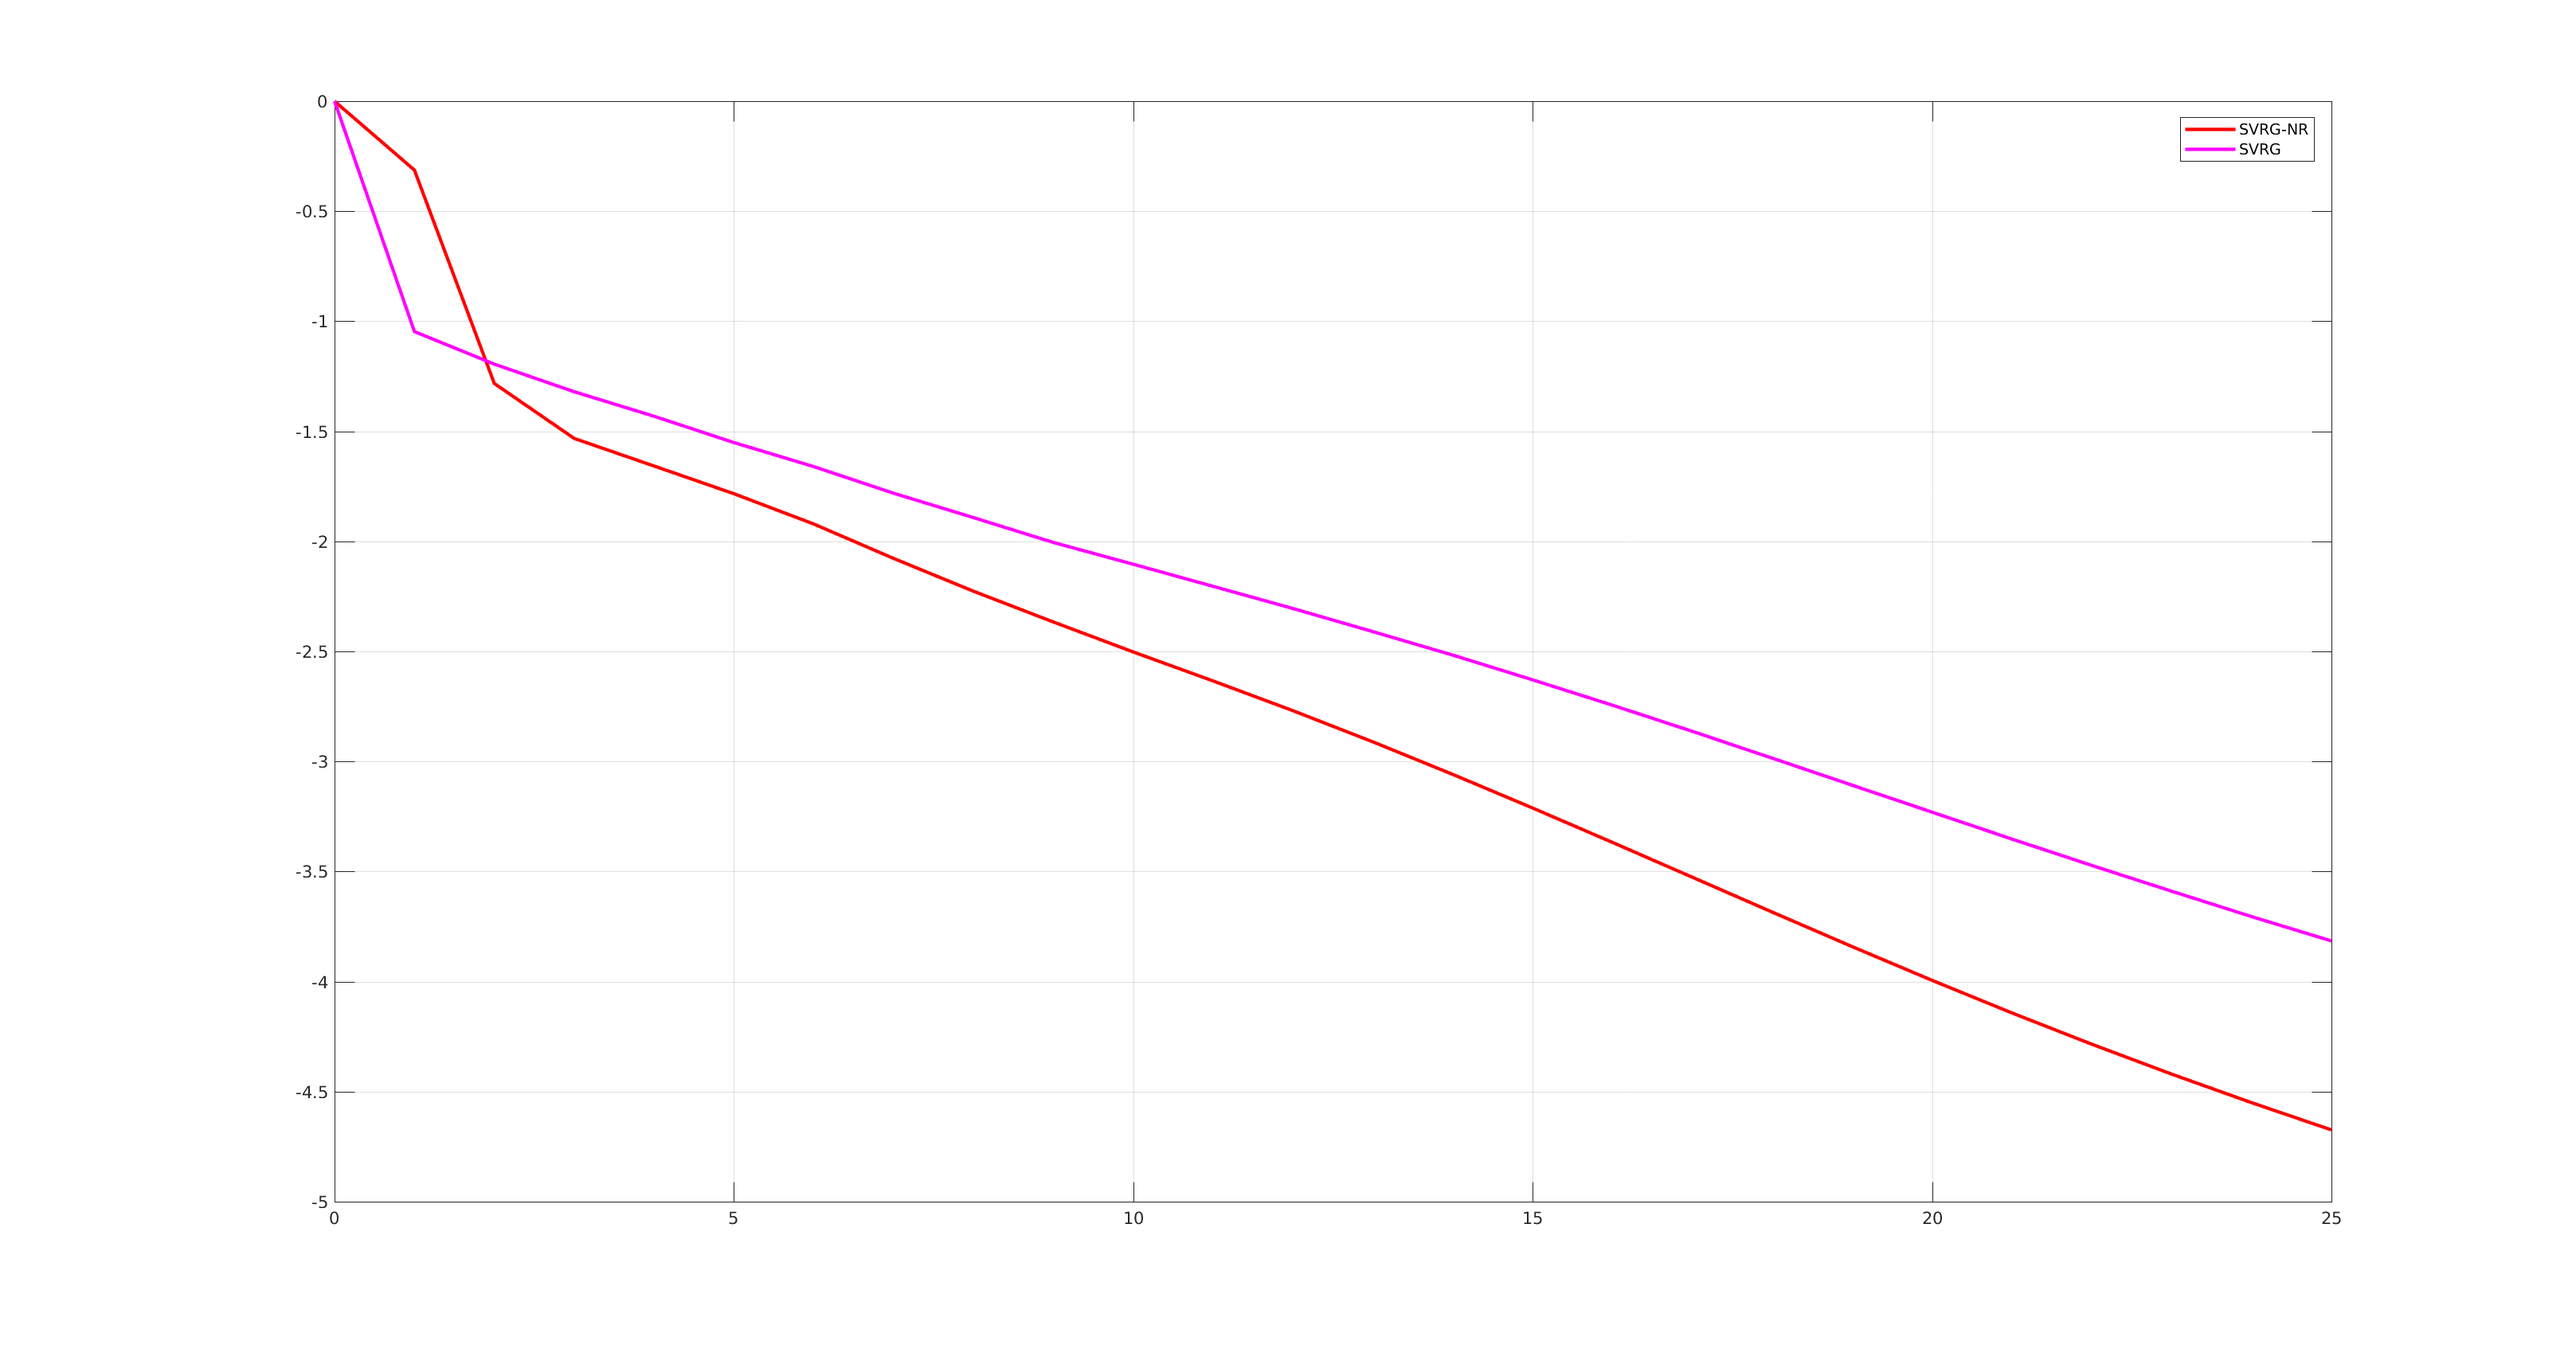
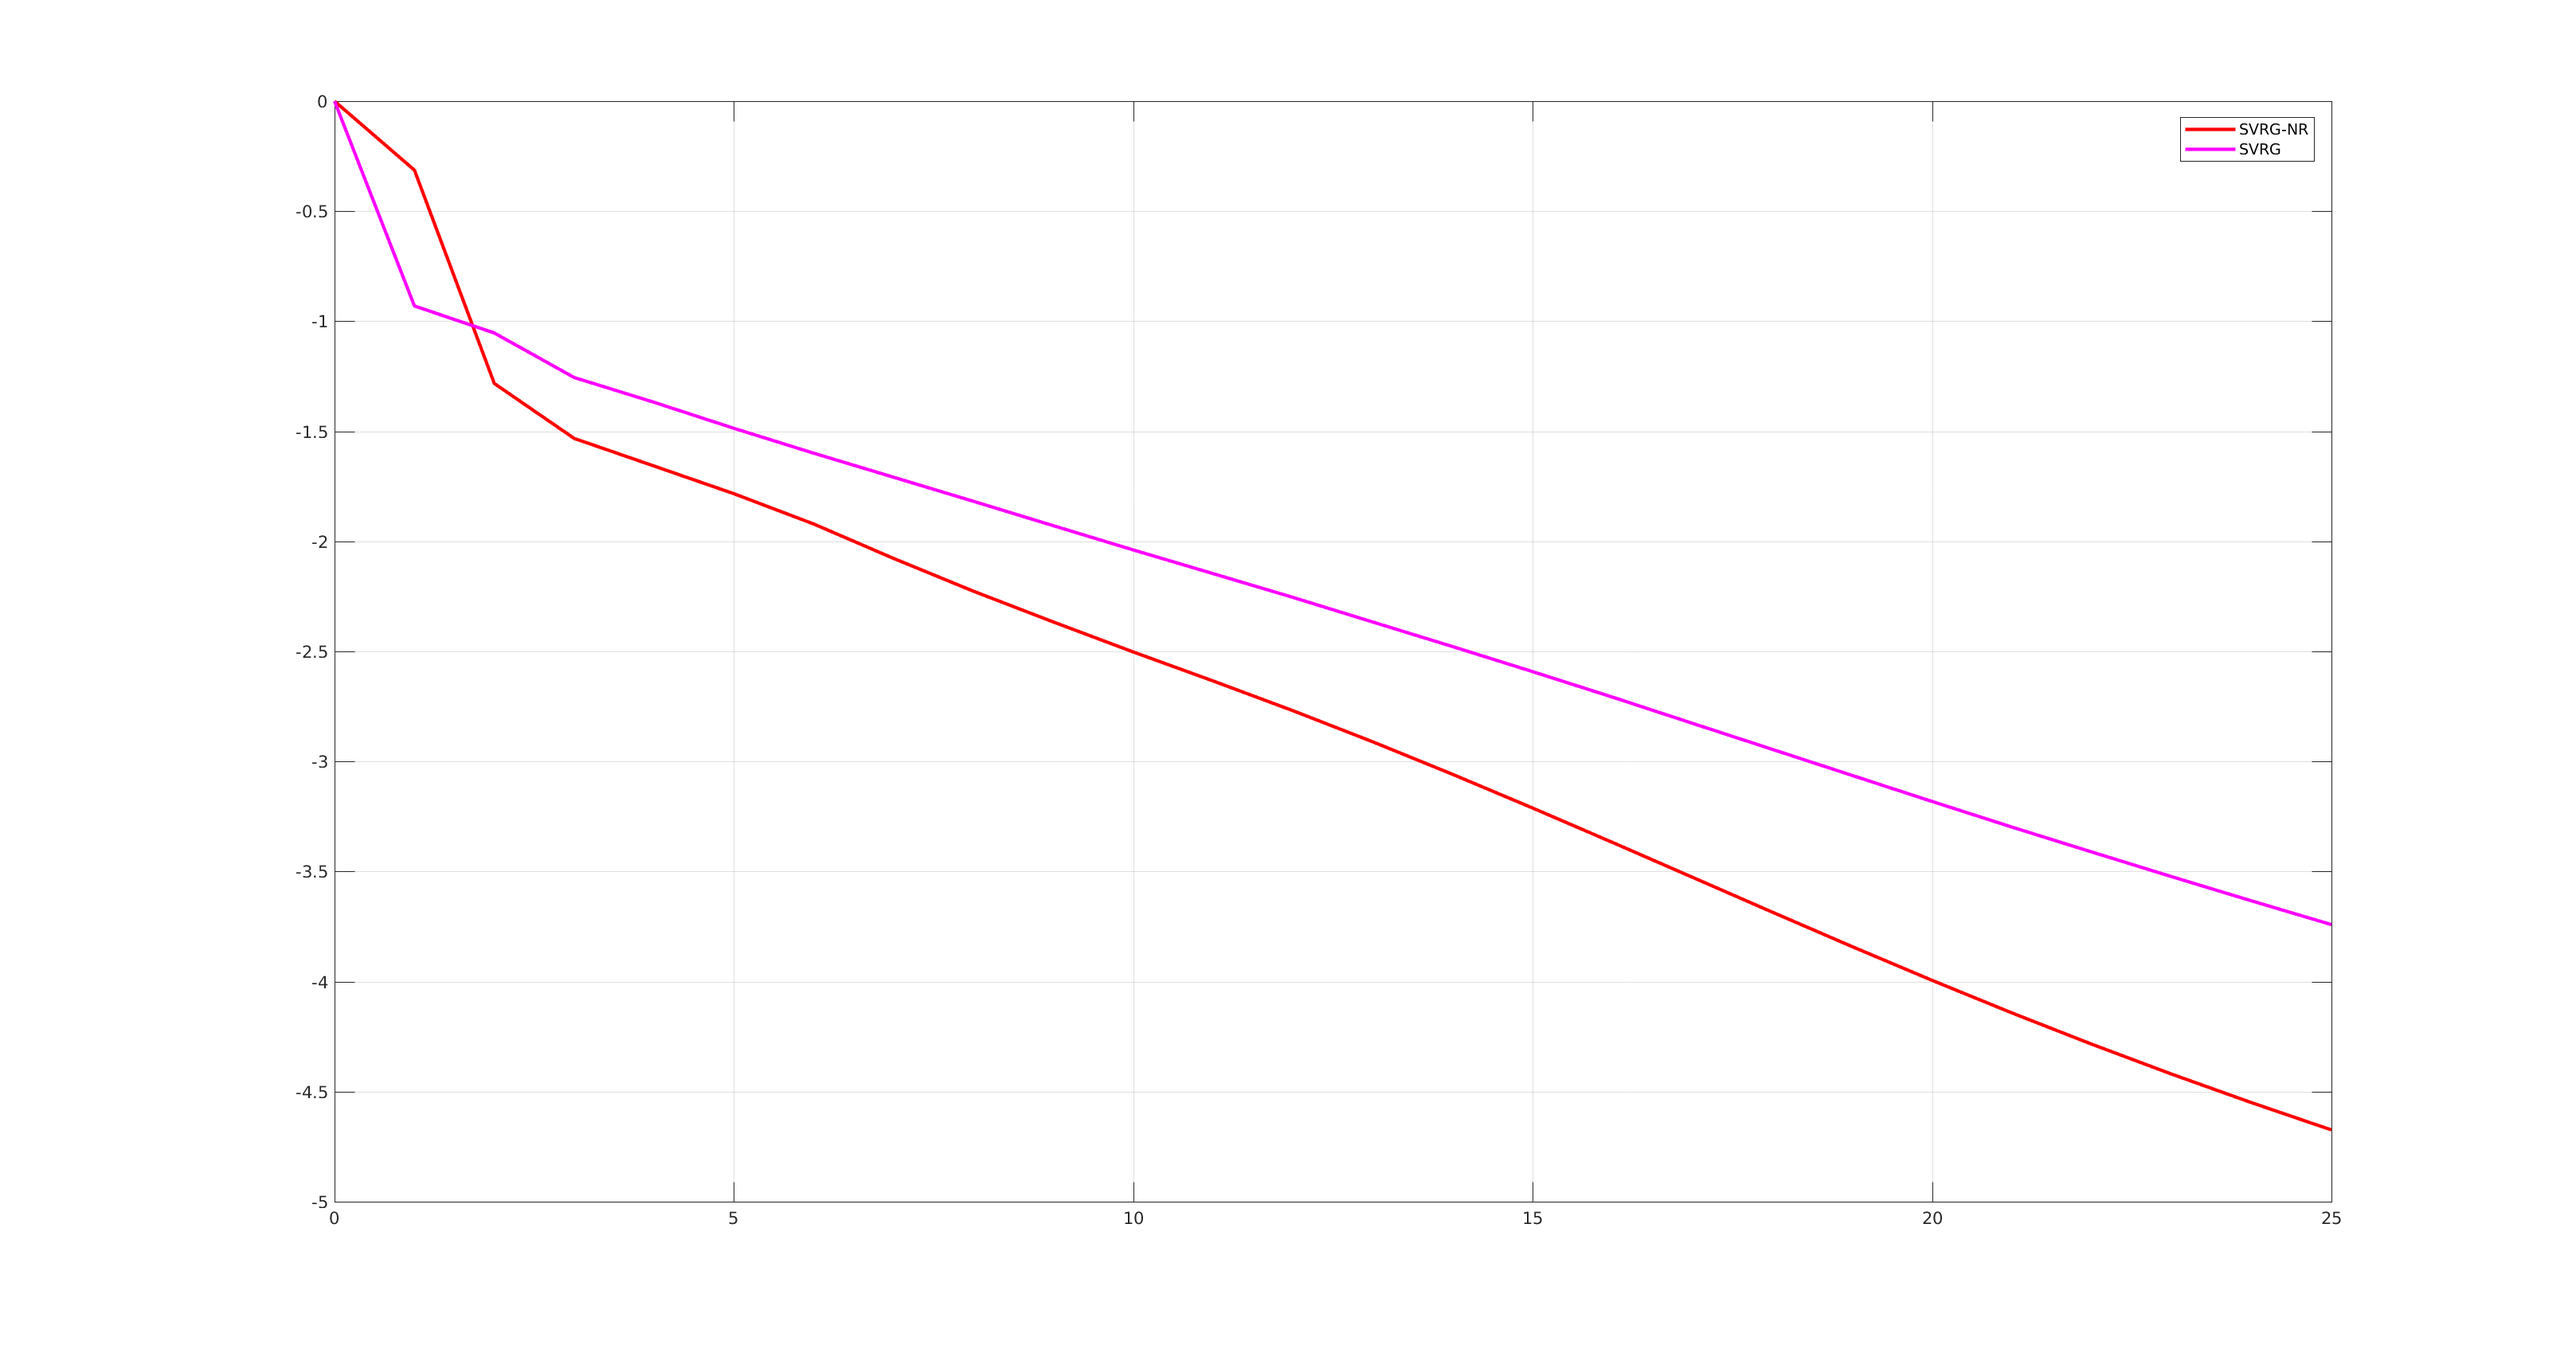
it takes 200s to run an epoc now

diff --git a/FindOptSolution.m b/FindOptSolution.m
@@ -5,13 +5,16 @@ fprintf('Computing optimal solution ...\n');
 
 % initialization
 [d ,n] = size(X);
-iterNum = n;
+
+batchSize = 64;
+
+iterNum = round(n/batchSize);
 lambda = objFunc.lambda;
 
 eta = factor / objFunc.L
 % eta = 5e-1
 
-wtilde = zeros(d, 1);
+wtilde = sparse(zeros(d, 1));
 w = wtilde;
 wOpt = wtilde;
 optCost = objFunc.PrintCost(wtilde, X, y, 0);;
@@ -20,18 +23,18 @@ reward = 0;
 
 
 for s = 1:passes % for each epoch
-    ntilde = objFunc.Gradient(wtilde, X, y);
+    ntilde = sparse(objFunc.Gradient(wtilde, X, y));
 
     for i = 1:iterNum
-        idx = randperm(n, 1);
+        idx = randperm(n, batchSize);
         Xtmp = X(:, idx);
         ytmp = y(idx);
         % new gradient
         tmpExp = exp(-ytmp .* (w'*Xtmp)')'; % 1-by-n vector
-        newGradient = (-ytmp' .* tmpExp .* Xtmp ) ./ (1 + tmpExp);
+        newGradient = mean((-ytmp' .* tmpExp .* Xtmp ) ./ (1 + tmpExp), 2);
         % old gradient
         tmpExp = exp(-ytmp .* (wtilde'*Xtmp)')'; % 1-by-n vector
-        oldGradient = (-ytmp' .* tmpExp .* Xtmp ) ./ (1 + tmpExp);
+        oldGradient = mean((-ytmp' .* tmpExp .* Xtmp ) ./ (1 + tmpExp), 2);
 
         wDelta = newGradient - oldGradient + lambda * w + ntilde;
         w = w - eta * wDelta;

diff --git a/LoadDataset.m b/LoadDataset.m
@@ -47,11 +47,20 @@ elseif strcmp(name, 'rcv1')
     % rcv1 dataset is ready
 
 elseif strcmp(name, 'avazu')
+    test_size = 0.33;
     % avazu dataset
-    [ytrain, Xtrain] = libsvmread('../data/avazu/avazu-app');
-    ytrain(ytrain == 0) = -1;
-    [ytest, Xtest] = libsvmread('../data/avazu/avazu-app.t');
-    ytest(ytest == 0) = -1;
+    [y, X] = libsvmread('../data/avazu/avazu-app');
+    [n, ~] = size(X);
+    y(y == 0) = -1;
+
+    ordering = randperm(seed, n);
+    y = y(ordering, :);
+    X = X(ordering, :);
+    split = round(n * (1 - test_size));
+    Xtrain = X(1:split, :);
+    Xtest = X(split+1:end, :);
+    ytrain = y(1:split);
+    ytest = y(split+1:end);
     % avazu dataset is ready
 
 elseif strcmp(name, 'MNIST')

diff --git a/main.m b/main.m
@@ -1,7 +1,7 @@
 % dataset : toy, covtype, rcv1, avazu, MNIST.
 
 dataset = 'avazu';
-passes = 8;
+passes = 1;
 factor = 1/2;
 lambda = 1e-5;
 %% preliminaries
@@ -17,7 +17,7 @@ fig = figure('units', 'normalized', 'outerposition', [0 0 1 1]);
 objFuncType = '_logistic';
 filename = strcat('../data/', dataset, objFuncType, '_opt.mat');
 if exist(filename, 'file') ~= 2
-    wOpt = FindOptSolution(logCost, Xtrain, ytrain, Xtest, ytest, passes * 10, factor);
+    wOpt = FindOptSolution(logCost, Xtrain, ytrain, Xtest, ytest, passes * 8, factor);
     save(filename, 'wOpt');
 else
     load(filename, 'wOpt');
